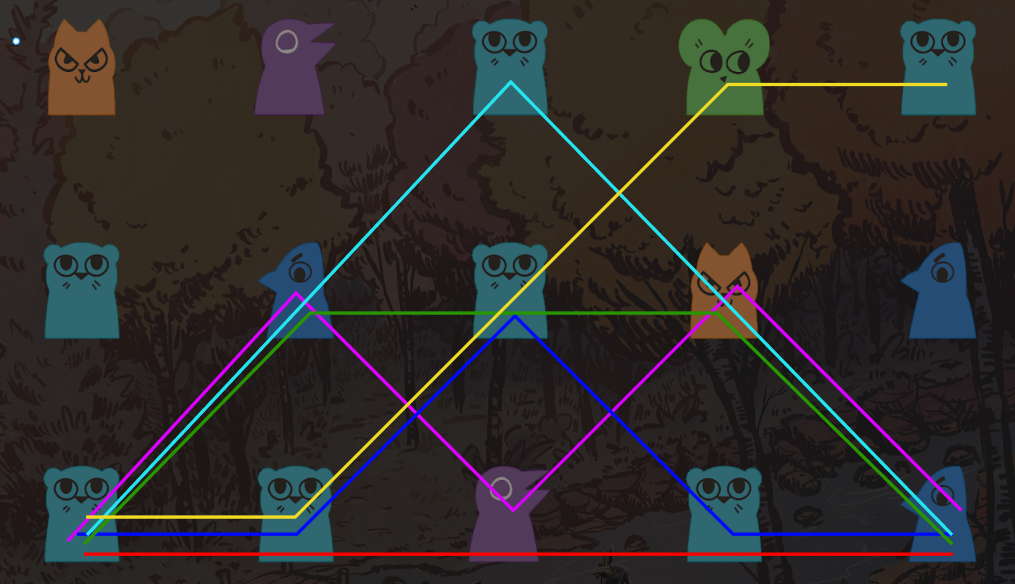
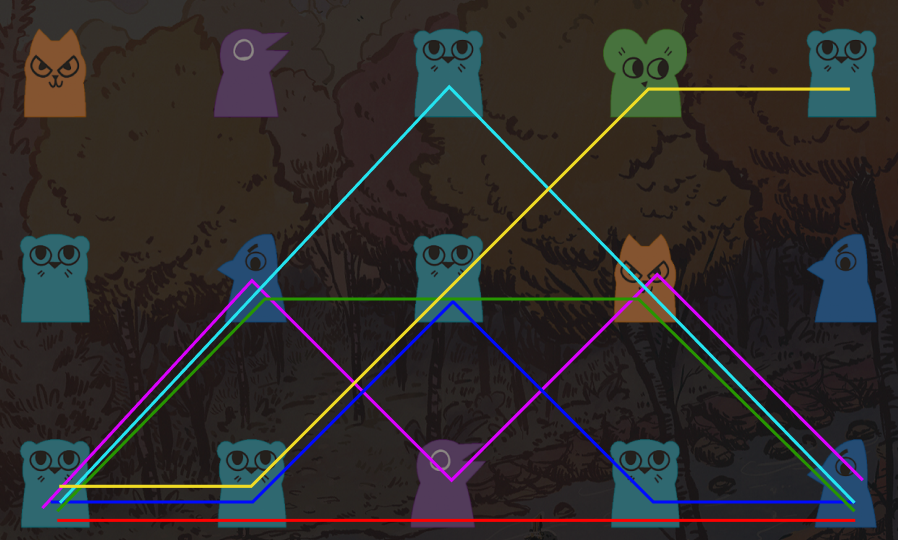
Spin happens everytime button is pressed Moved old JS files into seperate folder for clarity of what's being used Redid line colors and ensured all lines are correct to be passed into scoring algorithm

diff --git a/src/Game/game.ts b/src/Game/game.ts
@@ -1,9 +1,7 @@
 import { EGameStates } from "./Utils/Enum.ts";
 import { Symbols } from "./Classes/symbols.ts";
 import { FINAL_LOCATIONS_MAP, FinalLocation } from "./Utils/Types.ts";
-import InputHandler from "./input.js";
 import scoringAlgorithm from "./Utils/scoring.ts";
-import * as TWEEN from "@tweenjs/tween.js";
 
 //Global definitions
 let SYMBOLS: Symbols[] = [];
@@ -30,7 +28,6 @@ export class Game {
 		this.canvas = canvas;
 		this.width = width;
 		this.height = height;
-		this.input = new InputHandler(this);
 		this.debug = true;
 		this.score = 0;
 		this.gameOver = false;
@@ -117,37 +114,37 @@ export class Game {
 		//? When implimenting another game there should be a check here to make sure the lines for scoring are correct
 		//REFACTOR this is going to thave if checks depending on which lines the player has selected
 		const scoringArray = [];
-		//Color associate with a graphic that lays out the lines visualy for reference
+		//Color associate with a graphic that lays out the lines visually for reference
+
 		//RED
 		scoringArray.push(topRow);
 		scoringArray.push(midRow);
 		scoringArray.push(botRow);
-		// console.log(`FINAL`, topRow, midRow, botRow);
-		//GREEN
-		scoringArray.push([topRow[0], topRow[1], midRow[2], topRow[3], topRow[4]]);
-		scoringArray.push([topRow[0], topRow[1], midRow[2], topRow[3], topRow[4]]);
-		scoringArray.push([midRow[0], midRow[1], botRow[2], midRow[3], midRow[4]]);
-		//BLUE
-		scoringArray.push([botRow[0], botRow[1], midRow[2], botRow[3], botRow[4]]);
-		scoringArray.push([midRow[0], midRow[1], topRow[2], midRow[3], midRow[4]]);
-		//YELLOW
-		scoringArray.push([topRow[0], topRow[1], midRow[2], botRow[3], botRow[4]]);
-		scoringArray.push([botRow[0], botRow[1], midRow[2], topRow[3], topRow[4]]);
-		//CYAN
-		scoringArray.push([botRow[0], midRow[1], topRow[2], midRow[3], botRow[4]]);
-		scoringArray.push([topRow[0], midRow[1], botRow[2], midRow[3], topRow[4]]);
-		//PURPLE
-		scoringArray.push([midRow[0], topRow[1], midRow[2], botRow[3], midRow[4]]);
-		scoringArray.push([midRow[0], botRow[1], midRow[2], topRow[3], midRow[4]]);
-		//FUSHIA
-		scoringArray.push([midRow[0], topRow[1], topRow[2], topRow[3], midRow[4]]);
-		scoringArray.push([midRow[0], botRow[1], botRow[2], botRow[3], midRow[4]]);
+		//DARK BLUE
+		scoringArray.push(topRow[0], topRow[1], midRow[2], topRow[3], topRow[4]);
+		scoringArray.push(midRow[0], midRow[1], topRow[2], midRow[3], midRow[4]);
+		scoringArray.push(botRow[0], botRow[1], midRow[2], botRow[3], botRow[4]);
+		scoringArray.push(midRow[0], midRow[1], botRow[2], midRow[3], midRow[4]);
+		//MAGENTA
+		scoringArray.push(topRow[0], midRow[1], topRow[2], midRow[3], topRow[4]);
+		scoringArray.push(botRow[0], midRow[1], botRow[2], midRow[3], botRow[4]);
+		scoringArray.push(midRow[0], topRow[1], midRow[2], topRow[3], midRow[4]);
+		scoringArray.push(midRow[0], botRow[1], midRow[2], botRow[3], midRow[4]);
 		//ORANGE
-		scoringArray.push([midRow[0], topRow[1], midRow[2], topRow[3], midRow[4]]);
-		scoringArray.push([midRow[0], botRow[1], midRow[2], botRow[3], midRow[4]]);
-		//DARK GREEN
-		scoringArray.push([botRow[0], midRow[1], midRow[2], midRow[3], botRow[4]]);
-		scoringArray.push([topRow[0], midRow[1], midRow[2], midRow[3], topRow[4]]);
+		scoringArray.push(midRow[0], topRow[1], midRow[2], botRow[3], midRow[4]);
+		scoringArray.push(midRow[0], botRow[1], midRow[2], topRow[3], midRow[4]);
+		//GREEN
+		scoringArray.push(topRow[0], midRow[1], midRow[2], midRow[3], topRow[4]);
+		scoringArray.push(botRow[0], midRow[1], midRow[2], midRow[3], botRow[4]);
+		scoringArray.push(midRow[0], topRow[1], topRow[2], topRow[3], midRow[4]);
+		scoringArray.push(midRow[0], botRow[1], botRow[2], botRow[3], midRow[4]);
+		//CYAN
+		scoringArray.push(topRow[0], midRow[1], botRow[2], midRow[3], topRow[4]);
+		scoringArray.push(botRow[0], midRow[1], topRow[2], midRow[3], botRow[4]);
+		//YELLOW
+		scoringArray.push(topRow[0], topRow[1], midRow[2], botRow[3], botRow[4]);
+		scoringArray.push(botRow[0], botRow[1], midRow[2], topRow[3], topRow[4]);
+
 		let winnings = scoringAlgorithm(scoringArray);
 		console.log(`winnings ${winnings}`);
 		return winnings;

diff --git a/src/App.tsx b/src/App.tsx
@@ -8,9 +8,12 @@ import ReelBorders from "./Components/reel-borders.tsx";
 import * as TWEEN from "@tweenjs/tween.js";
 import runTestSpins from "./game.spec.ts";
 
+//These need to sit here because if they're within the compenent they interfere with the workings of everything on component reload
+let firstTime = true;
+let STATE = EGameStates.LoadingState;
+
 const App: React.FC = () => {
 	// console.log(`RELOADED APP`);
-	let STATE = EGameStates.LoadingState;
 	let DEBUG = true;
 	const CANVAS = useRef<HTMLCanvasElement>(null);
 	const CTX = useRef<CanvasRenderingContext2D | null>(null);
@@ -32,7 +35,9 @@ const App: React.FC = () => {
 	});
 
 	const setUp = () => {
+		if (!firstTime) return;
 		//If the canvas exists adn we have a hold on the current one
+		firstTime = false;
 		if (CANVAS.current) {
 			//Get the context of the canvas
 			CTX.current = CANVAS.current.getContext("2d");
@@ -52,11 +57,13 @@ const App: React.FC = () => {
 
 				//Set initial state
 				STATE = EGameStates.IdleState;
-				//Initiialize the pieces into the array and onto the canvas and let it know we're not running a test
+				//Initialize the pieces into the array and onto the canvas and let it know we're not running a test
+				//Passing false means we're not testing
 				GAME.current.initialize(false);
 				//Start the TWEEN so we can have nice animations on our values
 				// tween.start();
 				//Start the animation loop
+
 				animate();
 			}
 		}
@@ -111,8 +118,7 @@ const App: React.FC = () => {
 					formatCurrency(balance - (coinsPerLine / 100) * LINES_IN_PLAY)
 				)
 			);
-			tween.to({ balance });
-			// //* Test script interrupt here
+			//* Test script interrupt here
 			// runTestSpins(GAME.current);
 			// return;
 			STATE = EGameStates.SpinningState;
@@ -145,11 +151,11 @@ const App: React.FC = () => {
 				}, 1500);
 				setTimeout(() => {
 					const returnedWinnings = GAME.current.stopSpin(4);
-					setWinnings(returnedWinnings);
+					//Manually reset the state
 					STATE = EGameStates.IdleState;
+					setWinnings(returnedWinnings);
 					setBalance(balance + returnedWinnings);
 				}, 2000);
-				//Manually reset the state
 			}, 2000);
 		}
 

diff --git a/src/Game/Classes/ruins.ts b/src/Game/Classes/ruins.ts
@@ -6,9 +6,6 @@ export class Ruins {
 	 *
 	 * @param game - The game object that is currently being manipulated
 	 */
-	checkForRuins(game) {
-		if (this.hasRuins) {
-			console.log("there are ruins");
-		}
-	}
+
+	//? This will be a place that the scoring algorithm calls to when there are ruins!
 }
